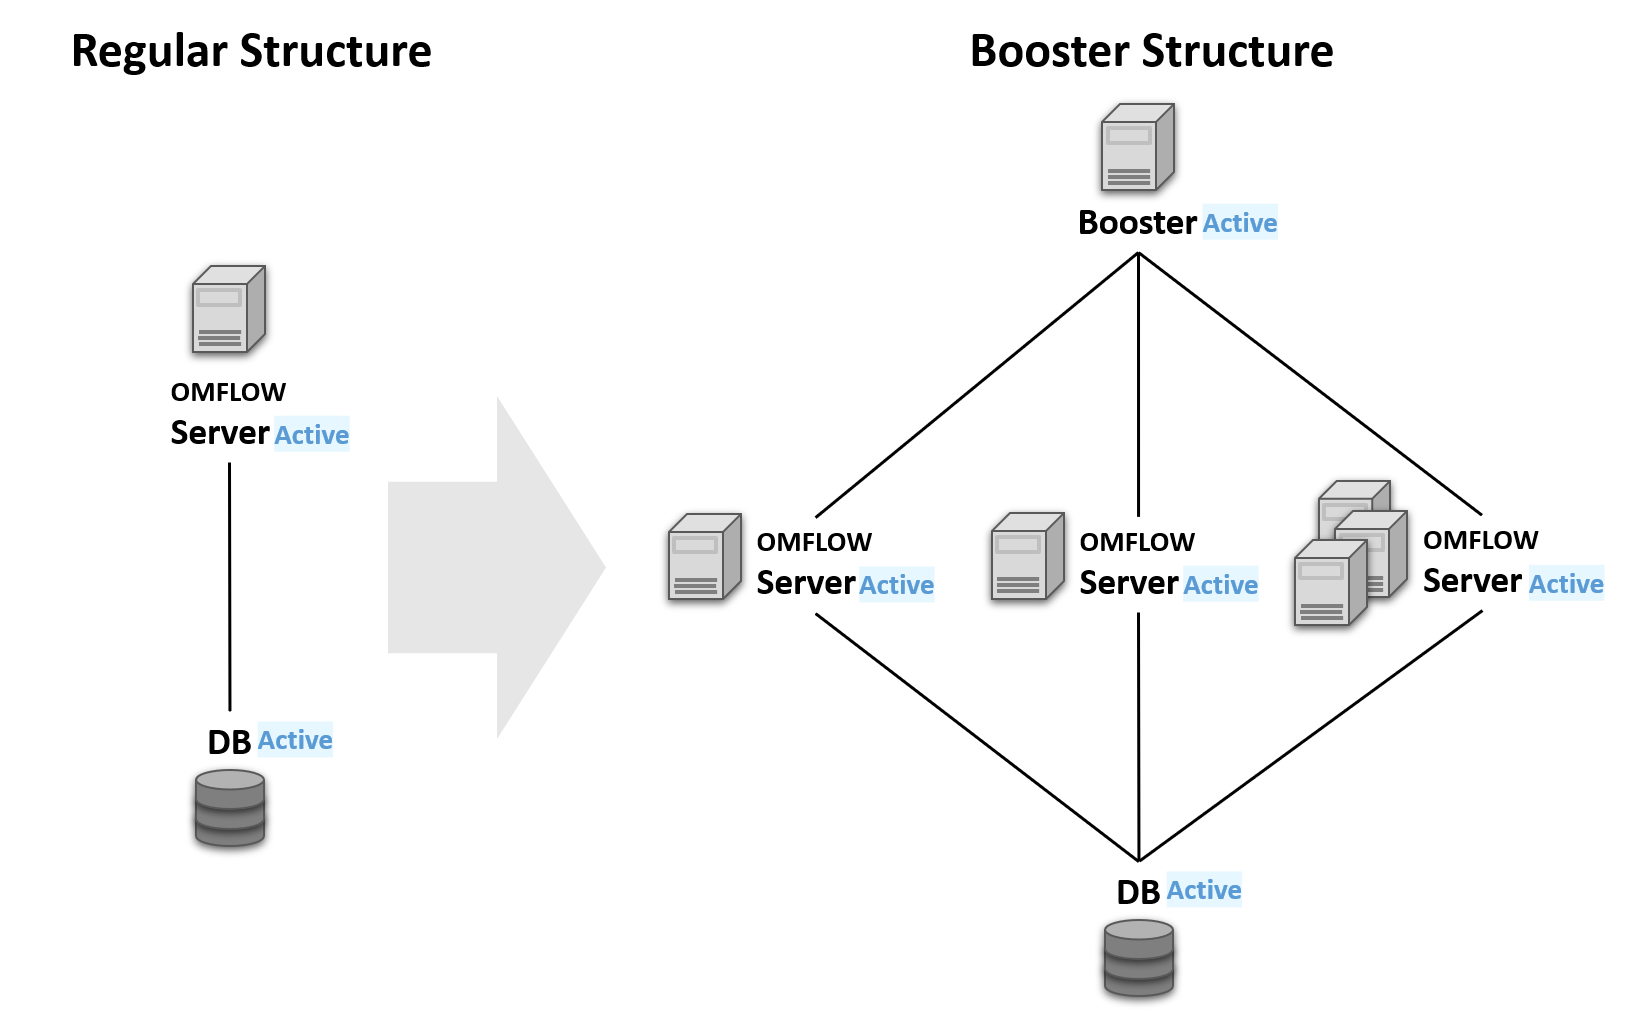
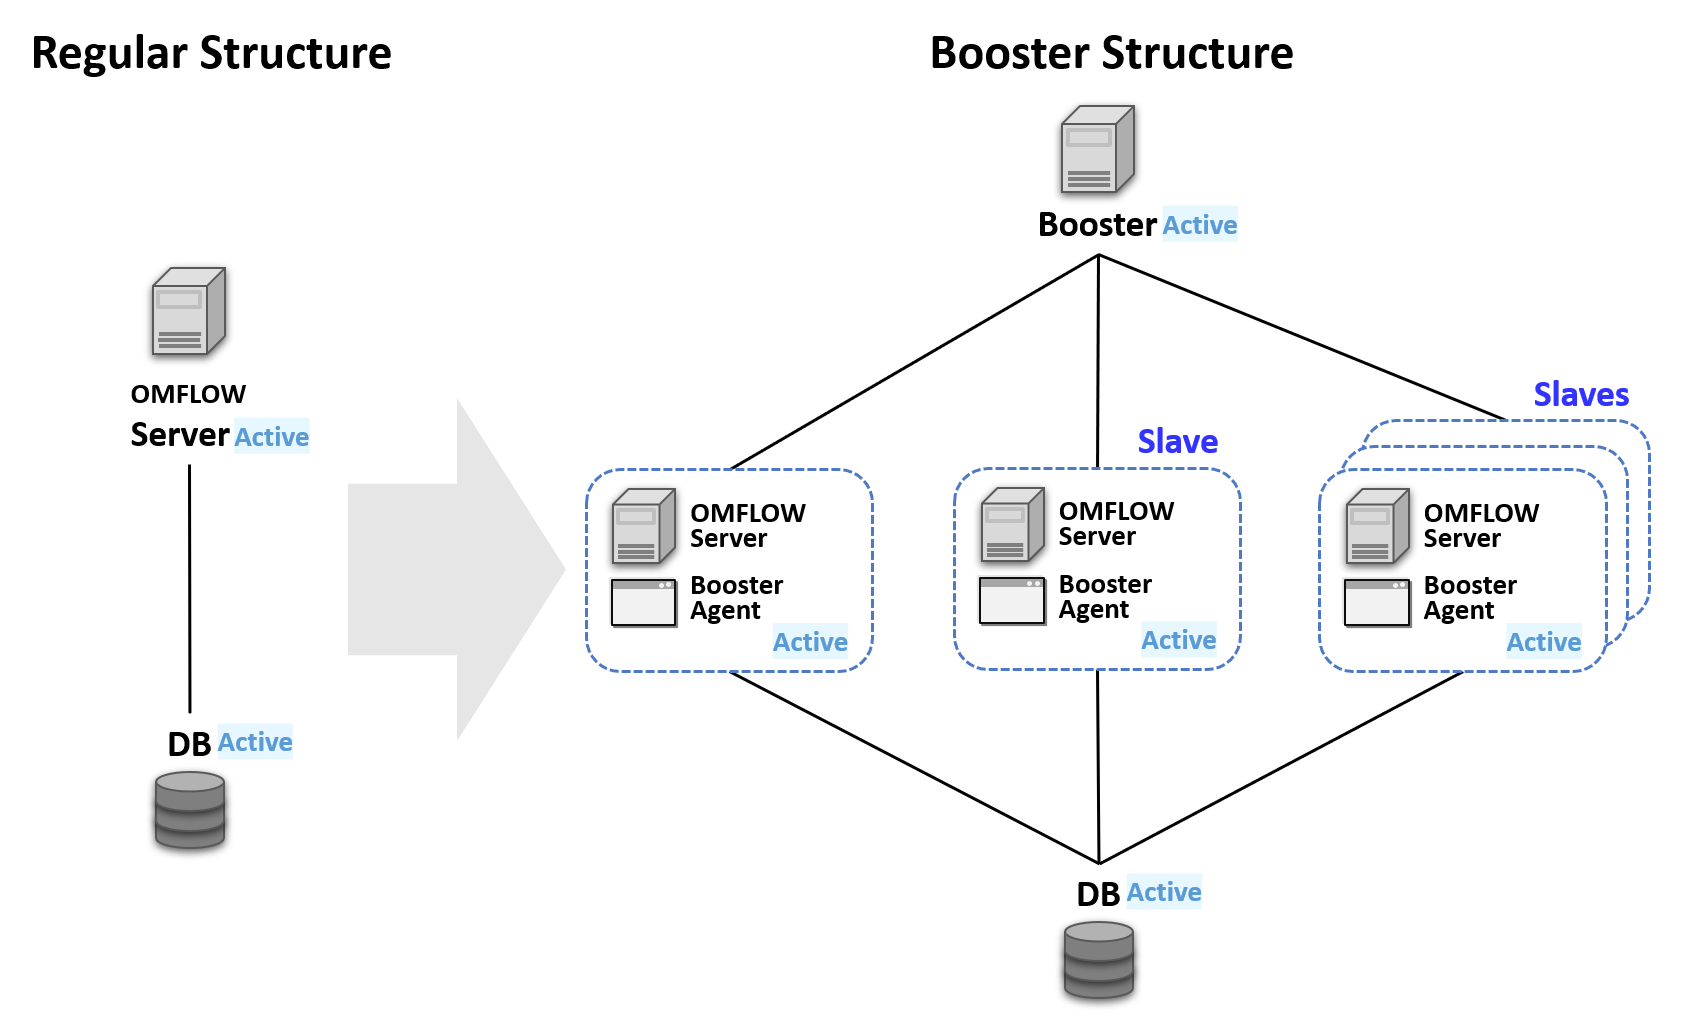
GitBook: [#490] No subject

diff --git a/3/booster.md b/3/booster.md
@@ -16,7 +16,7 @@ description: 支援Python：3.7.7、3.8
 
 同時OMFLOW也提供了高可用性的架構，將Booster分為「主、副」兩台，所有OMFLOW Server都會依此順序向Booster報到，以確保此架構任一節點失去聯繫時，系統仍能正常運作。
 
-![](../.gitbook/assets/BoosterHA架構.jpg)
+![](../.gitbook/assets/HA架構.png)
 
 #### OMFLOW Booster
 
